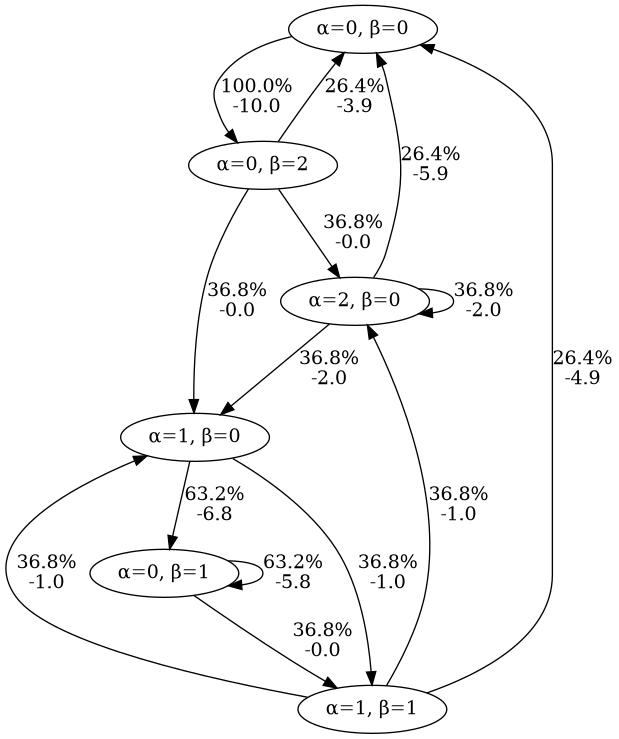
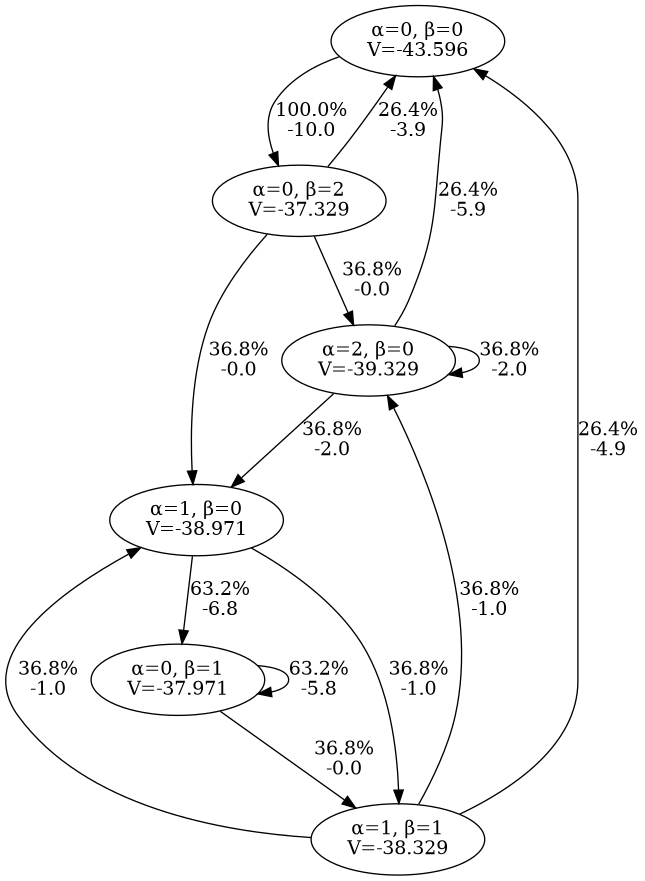
计算状态价值，并把它在状态转移图中画出来。

diff --git a/rl/chapter2/simple_inventory_mrp.py b/rl/chapter2/simple_inventory_mrp.py
@@ -8,6 +8,7 @@ from rl.distribution import SampledDistribution, Categorical, \
     FiniteDistribution
 import numpy as np
 import graphviz
+from pprint import pprint
 
 @dataclass(frozen=True)
 class InventoryState:
@@ -59,15 +60,22 @@ class SimpleInventoryMRPFinite(FiniteMarkovRewardProcess[InventoryState]):
         capacity: int,
         poisson_lambda: float,
         holding_cost: float,
-        stockout_cost: float
+        stockout_cost: float,
+        gamma: float # discount ratio 用于计算 V
     ):
         self.capacity: int = capacity
         self.poisson_lambda: float = poisson_lambda
         self.holding_cost: float = holding_cost
         self.stockout_cost: float = stockout_cost
+        self.gamma: float = gamma
 
         self.poisson_distr = poisson(poisson_lambda)
         super().__init__(self.get_transition_reward_map())
+
+        self.state_value = {
+            self.non_terminal_states[i]: round(v, 3)
+            for i, v in enumerate(self.get_value_function_vec(self.gamma))
+        }
 
     def get_transition_reward_map(self) -> \
             Mapping[
@@ -93,7 +101,7 @@ class SimpleInventoryMRPFinite(FiniteMarkovRewardProcess[InventoryState]):
         return d
     
     def presentAlphaBeta(self, s: InventoryState) -> str:
-        return f'α={s.on_hand}, β={s.on_order}'
+        return f'α={s.on_hand}, β={s.on_order}\nV={self.state_value[NonTerminal(s)]}'
     
     def generate_image(self) -> graphviz.Digraph:
         d = graphviz.Digraph()
@@ -120,7 +128,8 @@ if __name__ == '__main__':
         capacity=user_capacity,
         poisson_lambda=user_poisson_lambda,
         holding_cost=user_holding_cost,
-        stockout_cost=user_stockout_cost
+        stockout_cost=user_stockout_cost,
+        gamma=user_gamma
     )
 
     # print(SimpleInventoryMRPFinite.mro())
@@ -153,7 +162,8 @@ if __name__ == '__main__':
 
     print("Value Function")
     print("--------------")
-    si_mrp.display_value_function(gamma=user_gamma)
+    # si_mrp.display_value_function(gamma=user_gamma)
+    pprint(si_mrp.state_value)
     print()
 
     digraph = si_mrp.generate_image()
